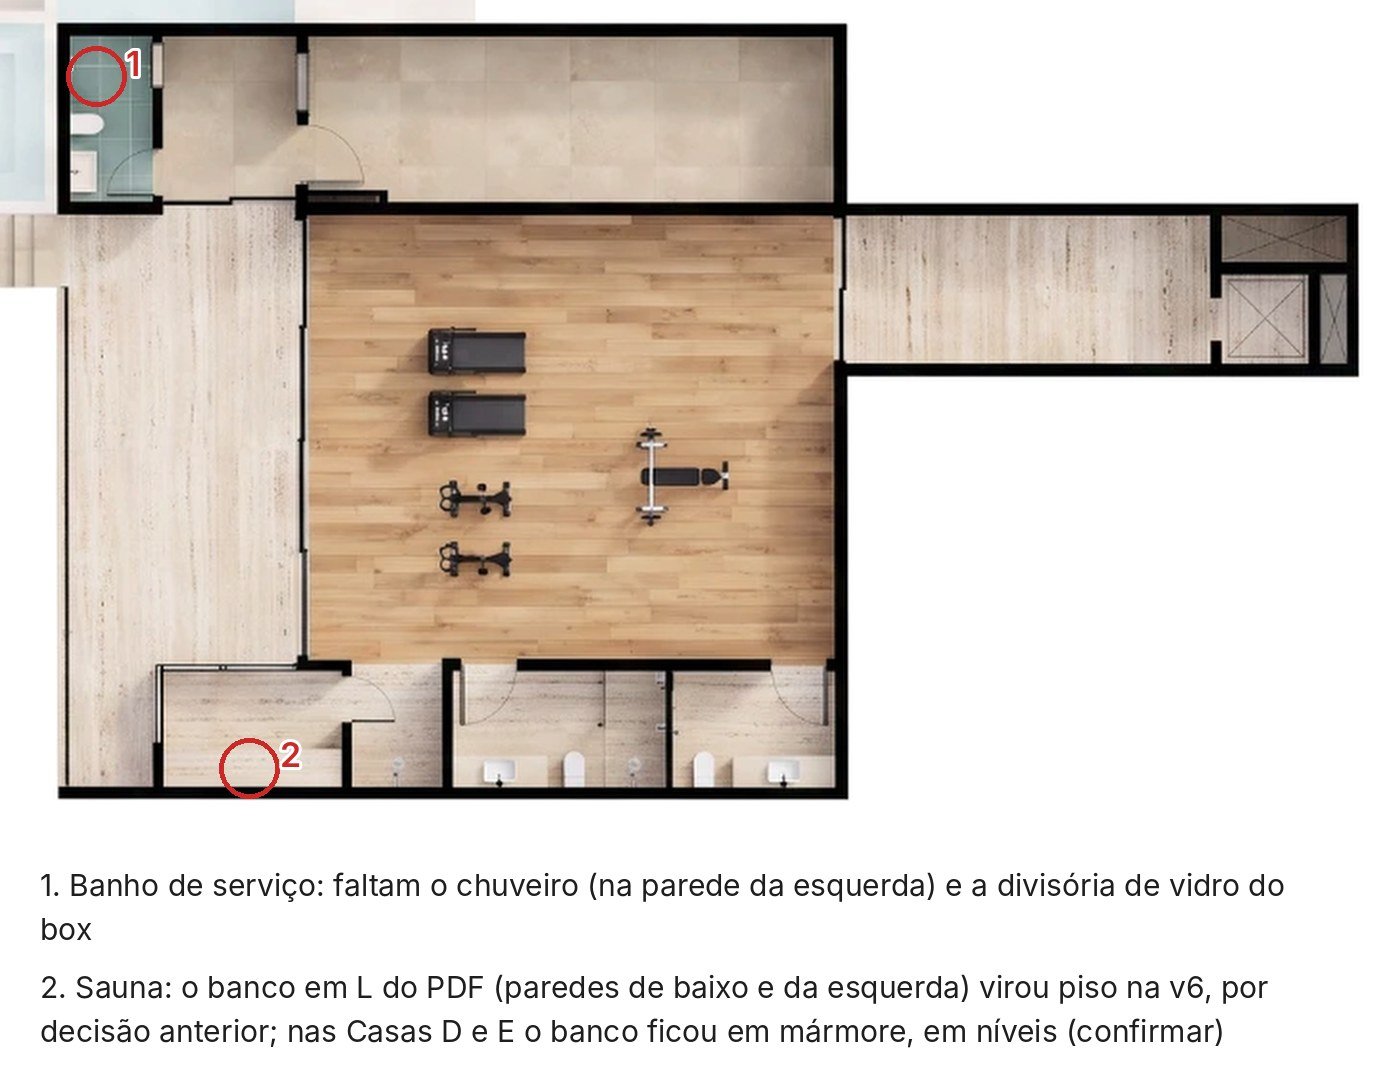
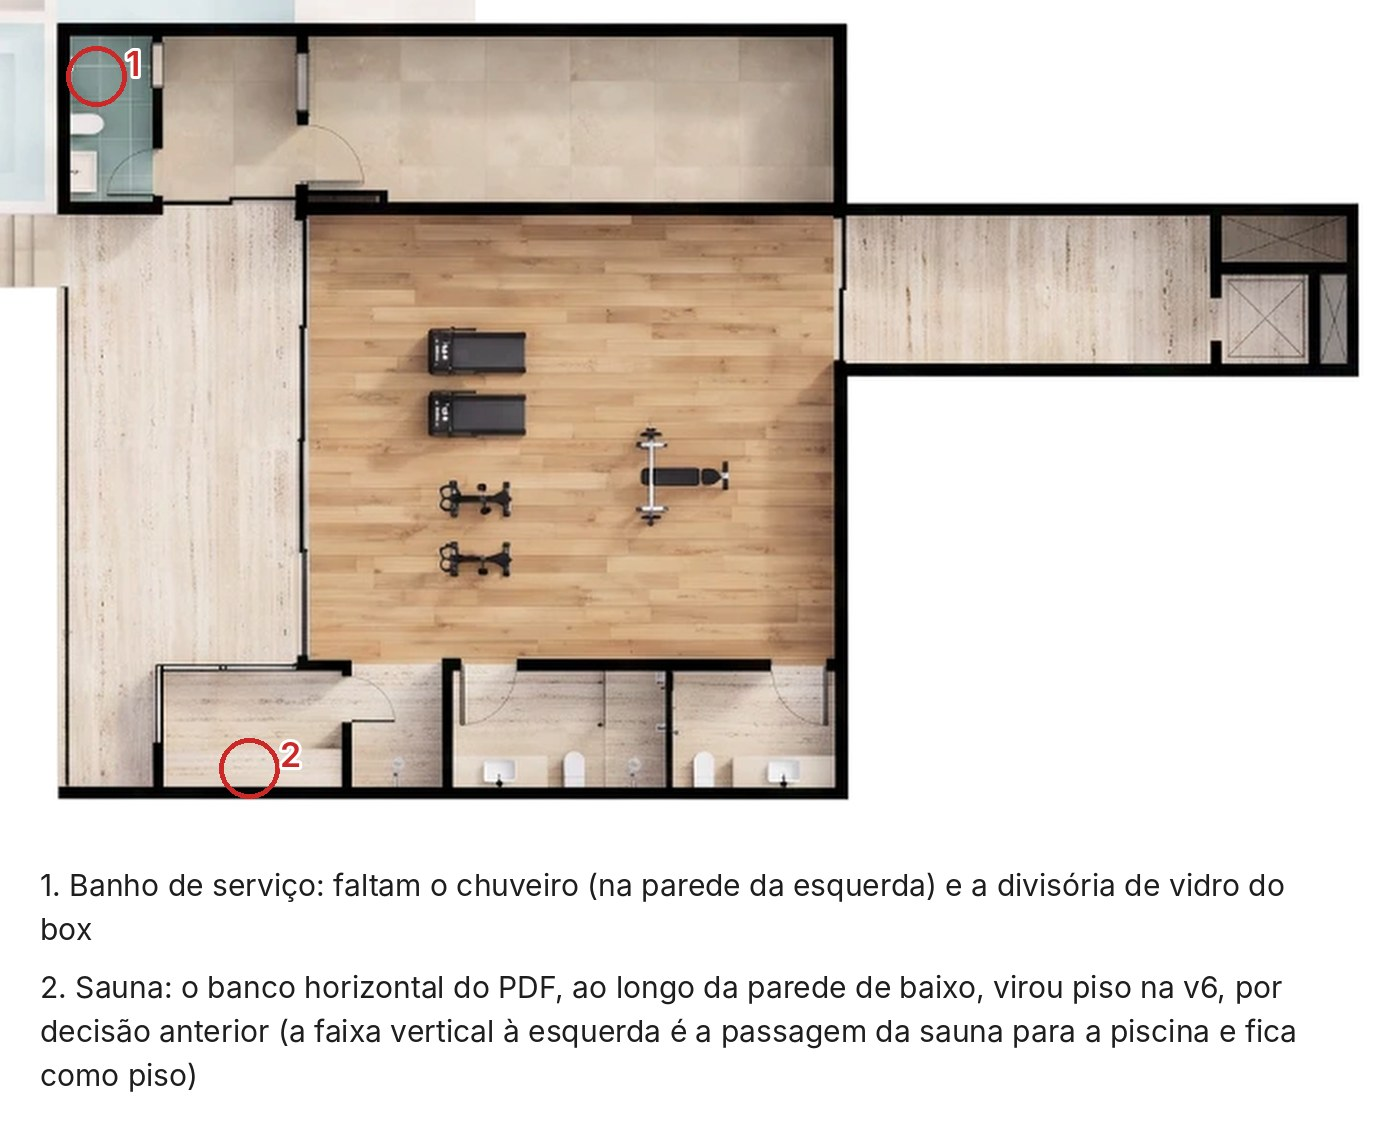
Casa A Subsolo: conferência da sauna corrigida (banco horizontal; a faixa é a passagem para a piscina)
Claude-Session: https://claude.ai/code/session_01Mm19WX3KoLN1nXMDF5Ay3F

diff --git a/projetos/POE642_CasaA/scripts/conferencia_casaa.py b/projetos/POE642_CasaA/scripts/conferencia_casaa.py
@@ -63,8 +63,10 @@ ITENS = {
     "Subsolo": [
         (1, "Banho de serviço: faltam o chuveiro (na parede da esquerda) e a divisória de vidro do box",
          [(590, 480)]),
-        (2, "Sauna: o banco em L do PDF (paredes de baixo e da esquerda) virou piso na v6, por decisão anterior; "
-            "nas Casas D e E o banco ficou em mármore, em níveis (confirmar)", [(670, 840)]),
+        # usuário (19/10/26): o banco é horizontal; a faixa vertical à esquerda é o piso da piscina, a passagem
+        # da sauna para a piscina ("não é em L")
+        (2, "Sauna: o banco horizontal do PDF, ao longo da parede de baixo, virou piso na v6, por decisão anterior "
+            "(a faixa vertical à esquerda é a passagem da sauna para a piscina e fica como piso)", [(670, 840)]),
     ],
 }
 

diff --git a/projetos/POE642_HANDOFF_SESSAO_LOCAL.md b/projetos/POE642_HANDOFF_SESSAO_LOCAL.md
@@ -744,7 +744,7 @@ Pedido do usuário (19/10/26): "vamos fazer a conferência de item a item do ren
   7. Banho master: a banheira do PDF é oval; a do render, retangular de cantos arredondados.
 - **Subsolo (2 itens):**
   1. Banho de serviço: faltam o chuveiro e a divisória de vidro do box.
-  2. Sauna: o banco em L do PDF virou piso na v6, por decisão anterior. Nas Casas D e E o banco ficou em mármore, em níveis; a confirmar.
+  2. Sauna: o banco do PDF, horizontal, ao longo da parede de baixo, virou piso na v6, por decisão anterior. Usuário (19/10/26): o banco não é em L; a faixa vertical à esquerda, no tom do piso da piscina, é a passagem da sauna para a piscina e fica como piso.
 - **Conferidos sem divergência:** cozinha, garagem (carros), hall interno e externo, escada interna e jardim da escada, piscina, prainha, spa, deck e escada do deck, gourmet, lavatório e WC, garagem e acesso; no 1º Pavimento, banhos 1, 2 e 3, closets, circulação, sala íntima, saleta com a caracol e as varandas; no Subsolo, academia (2 esteiras, 2 bicicletas e o banco com a barra), depósito, circulação, hall, banhos feminino e masculino e elevador.
 - **Próximo passo:** o usuário confirma a lista; o retoque segue um item por vez, sem IA, como na Casa E.
 
